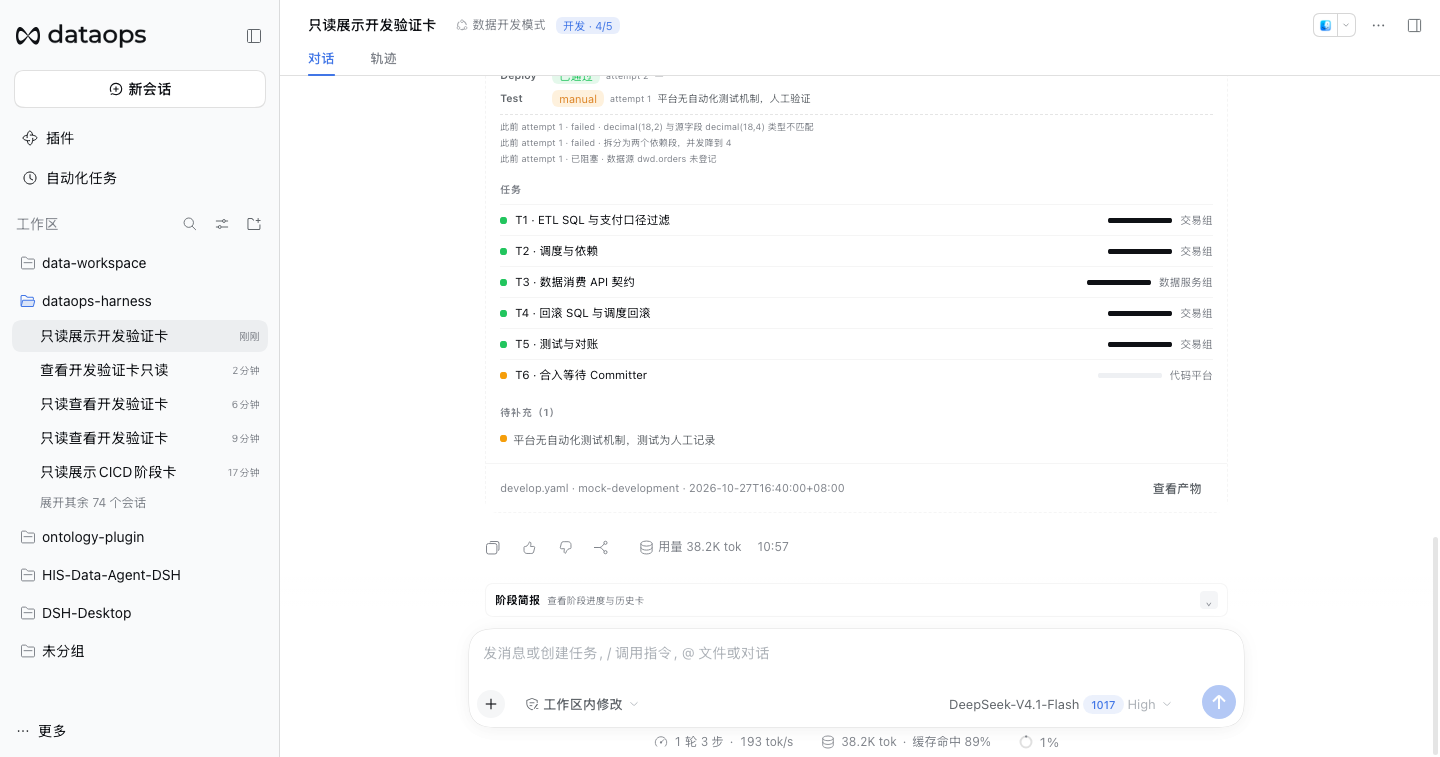
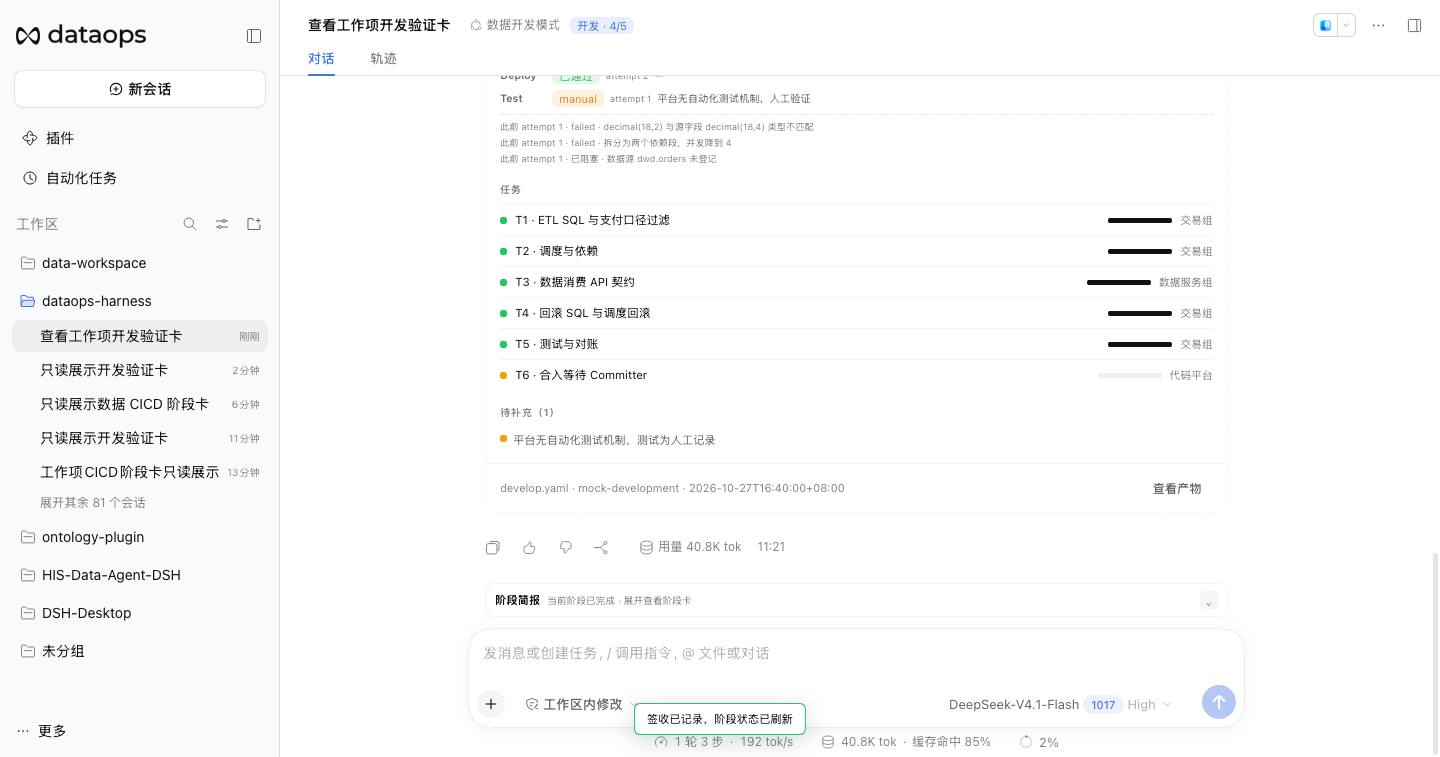
fix: keep signoff toast after closing confirmation

diff --git a/packages/dataops-client/src/index.js b/packages/dataops-client/src/index.js
@@ -180,7 +180,9 @@ function apply(ctx) {
       window.addEventListener('dataops:signoff-request', onRequest)
       return function () { window.removeEventListener('dataops:signoff-request', onRequest) }
     }, [])
-    if (!request && !notice) return null
+    if (!request) {
+      return notice ? React.createElement('div', { className: 'do-signoff-toast', role: 'status' }, notice) : null
+    }
     var text = '【签收】gate=' + request.gate + ' role=' + request.role + ' actionId=' + request.actionId + ' actor=' + request.actor + (request.comment ? ' comment=' + request.comment : '')
     function sendViaAgent() {
       if (typeof window.__dataopsCompose === 'function') window.__dataopsCompose(text)
